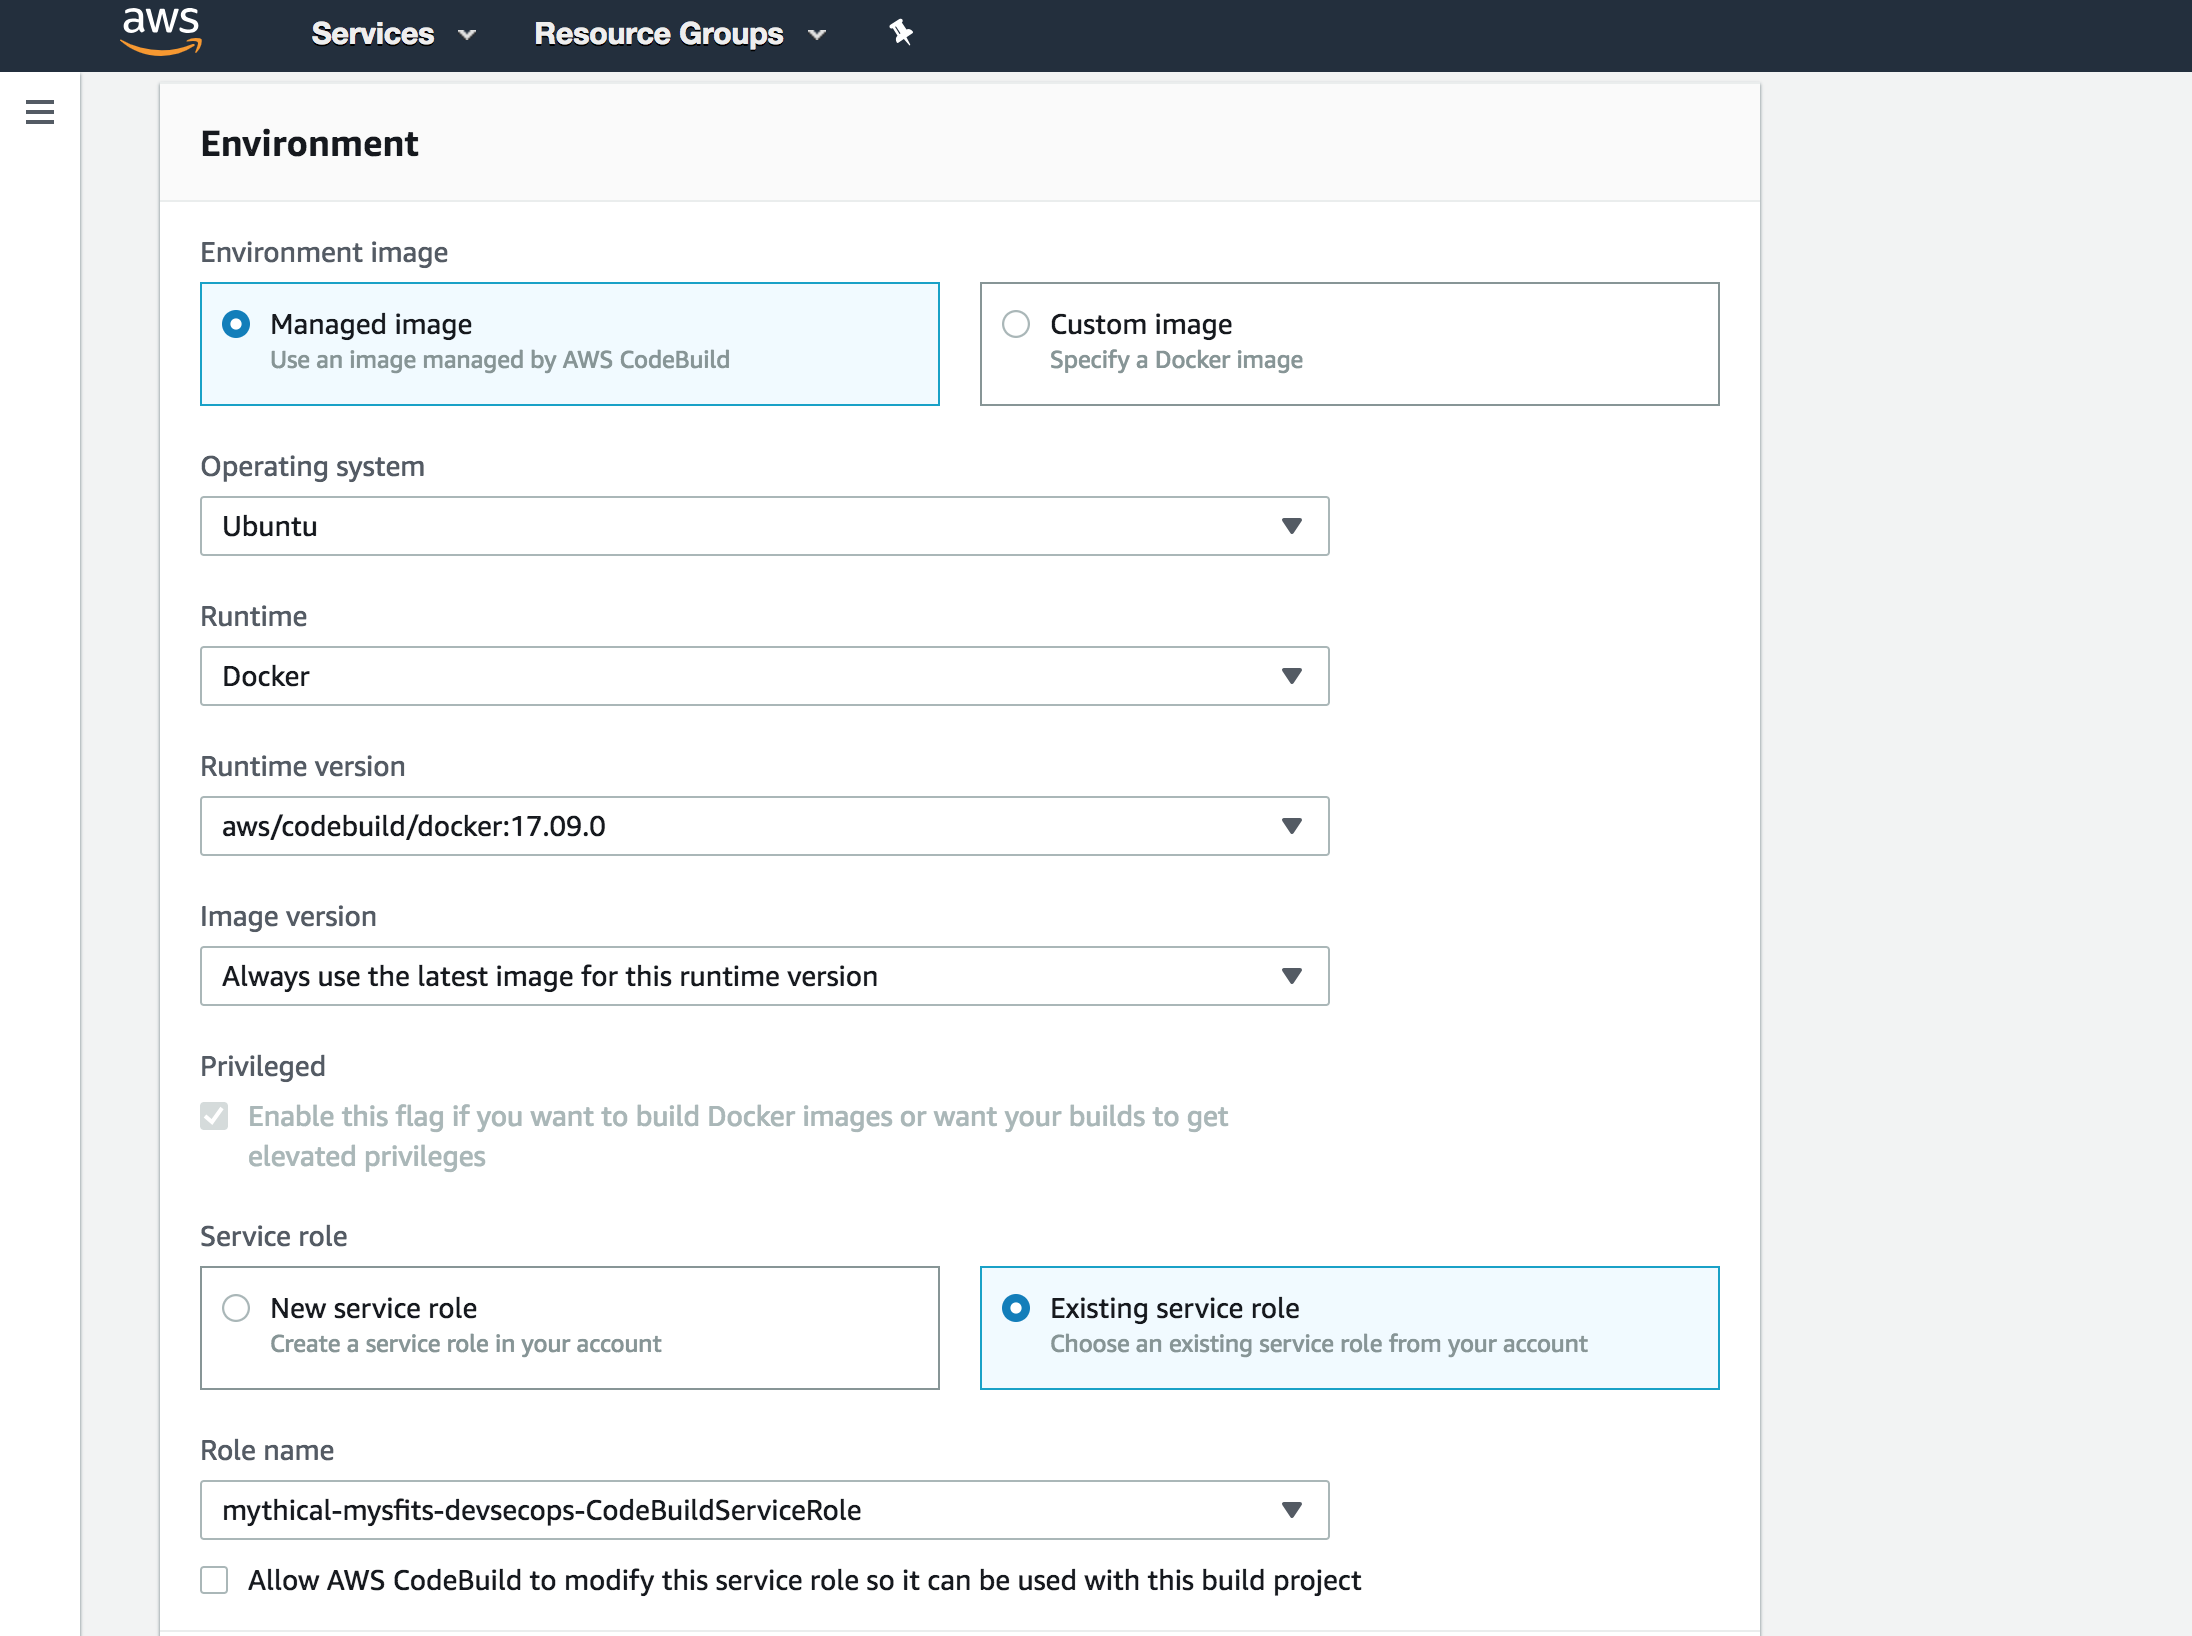
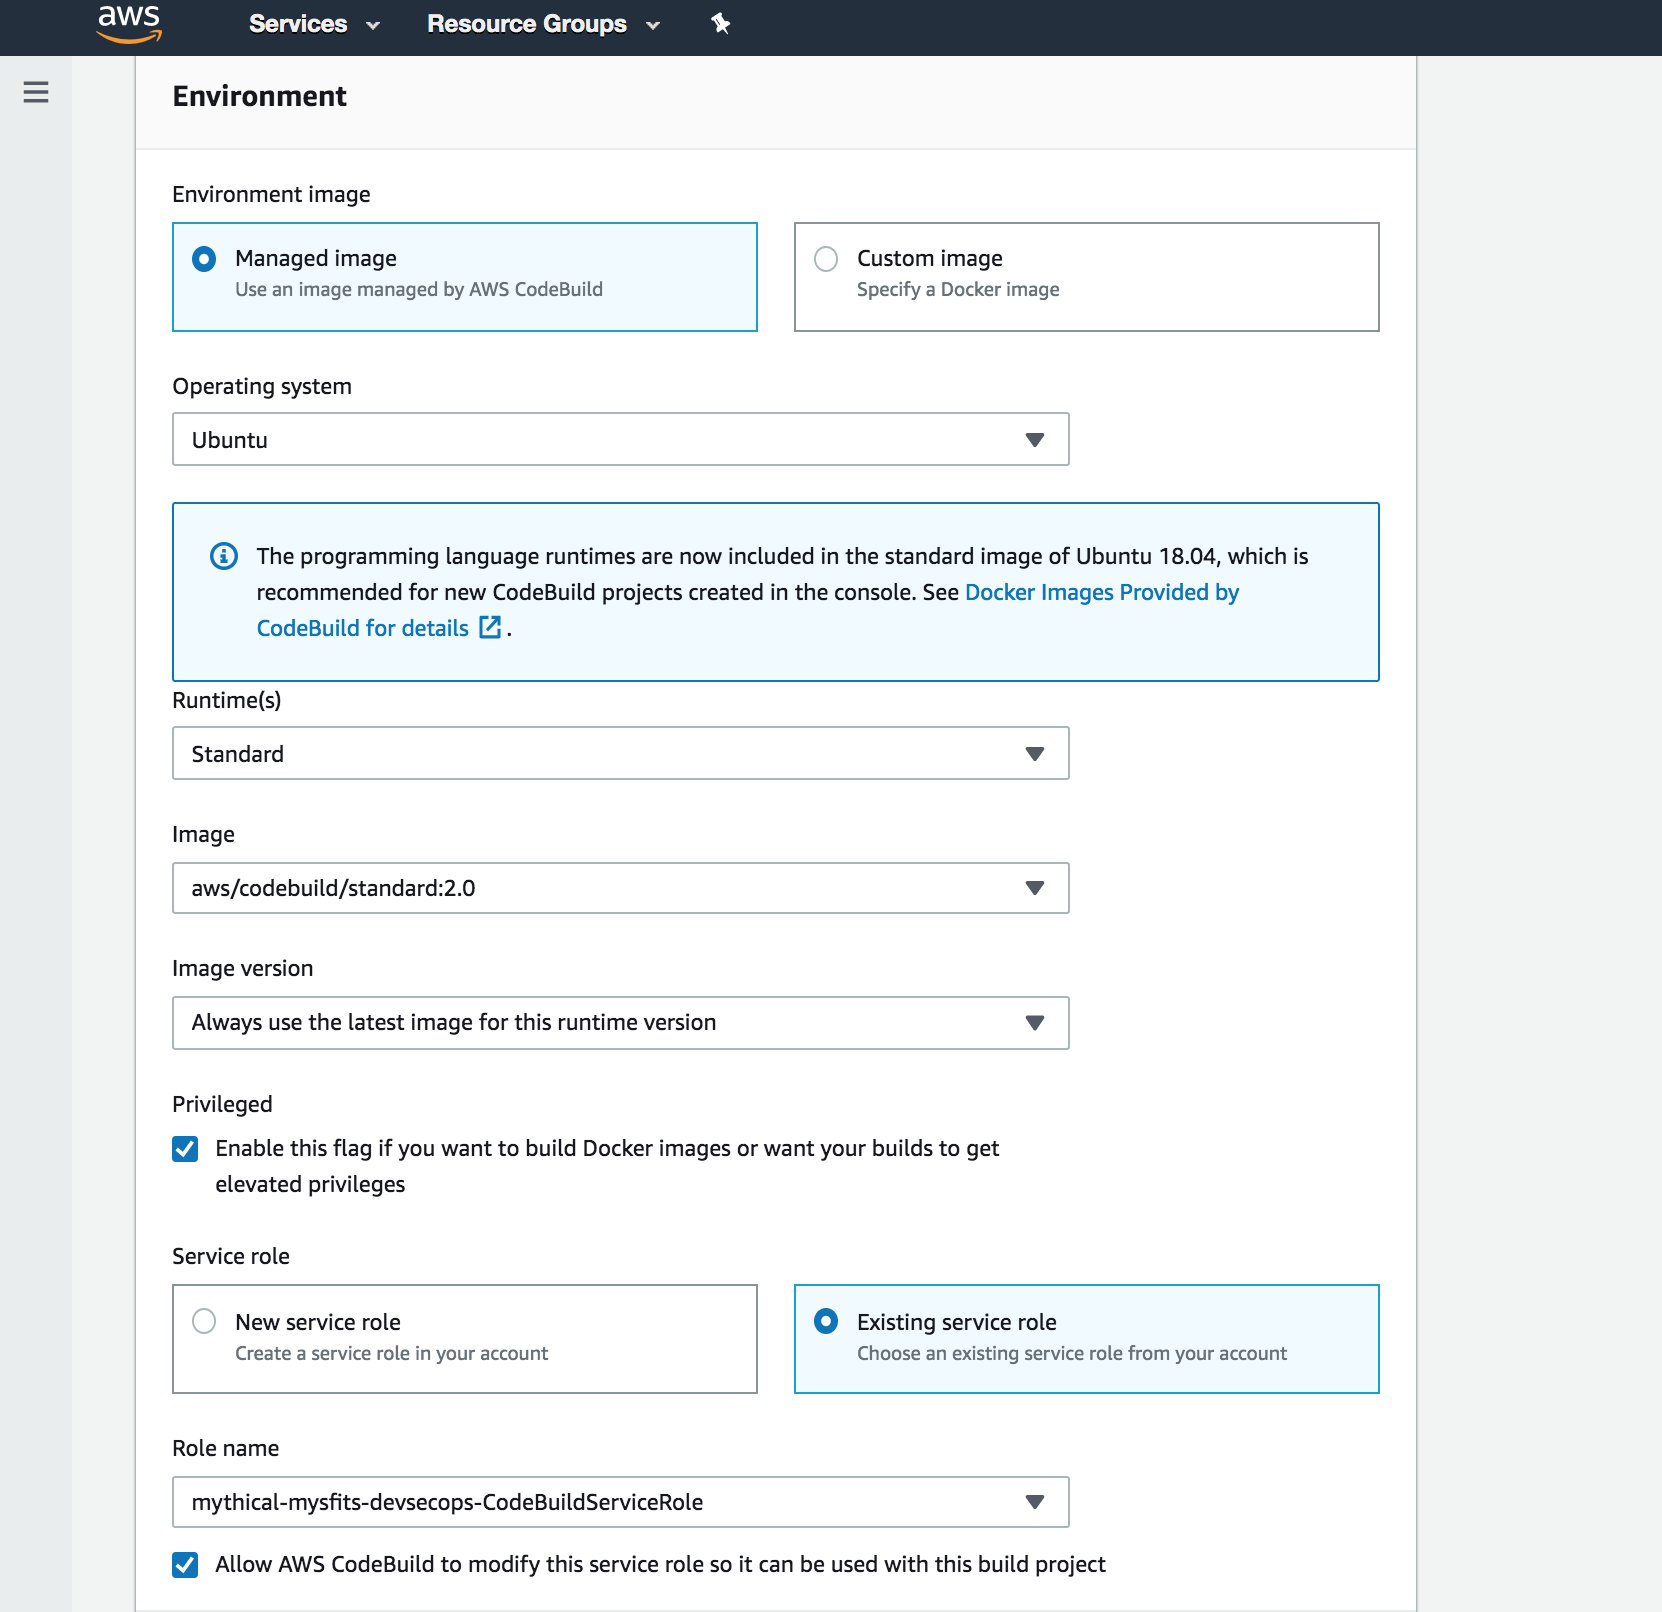
fixiing ws2 runtime codebuild update

diff --git a/workshop-2/Lab-2/README.md b/workshop-2/Lab-2/README.md
@@ -33,9 +33,10 @@ On the **Create build project** page, enter in the following details:
 - Environment Image: Select **Managed Image** - *There are two options. You can either use a predefined Docker container that is curated by CodeBuild, or you can upload your own if you want to customize dependencies etc. to speed up build time*
 - Operating System: Select **Ubuntu** - *This is the OS that will run your build*
 - Runtime: Select **Docker** - *Each image has specific versions of software installed. See [Docker Images Provided by AWS CodeBuild](http://docs.aws.amazon.com/codebuild/latest/userguide/build-env-ref-available.html)*
-- Runtime version: Select **aws/codebuild/docker:17.09.0** - *This will default to the latest*
+- Runtime version: Select **Standard** - *This will default to the latest*
+- Image: **aws/codebuild/standard:2.0**
 - Image version: **Leave as is**
-- Privileged: **Leave as is** - *You can't actually change anything here. In order for to run Docker inside a Docker container, you need to have elevated privileges*
+- Privileged: **Ensure Checked** - *You can't actually change anything here. In order for to run Docker inside a Docker container, you need to have elevated privileges*
 - Service role: **Existing service role** - *A service role was automatically created for you via CFN*
 - Role name: Choose **CFNStackName-CodeBuildServiceRole** - *Look for the service role that has the name of the CFN stack you created previously*
 - Uncheck **Allow AWS CodeBuild to modify this service role so it can be used with this build project**
